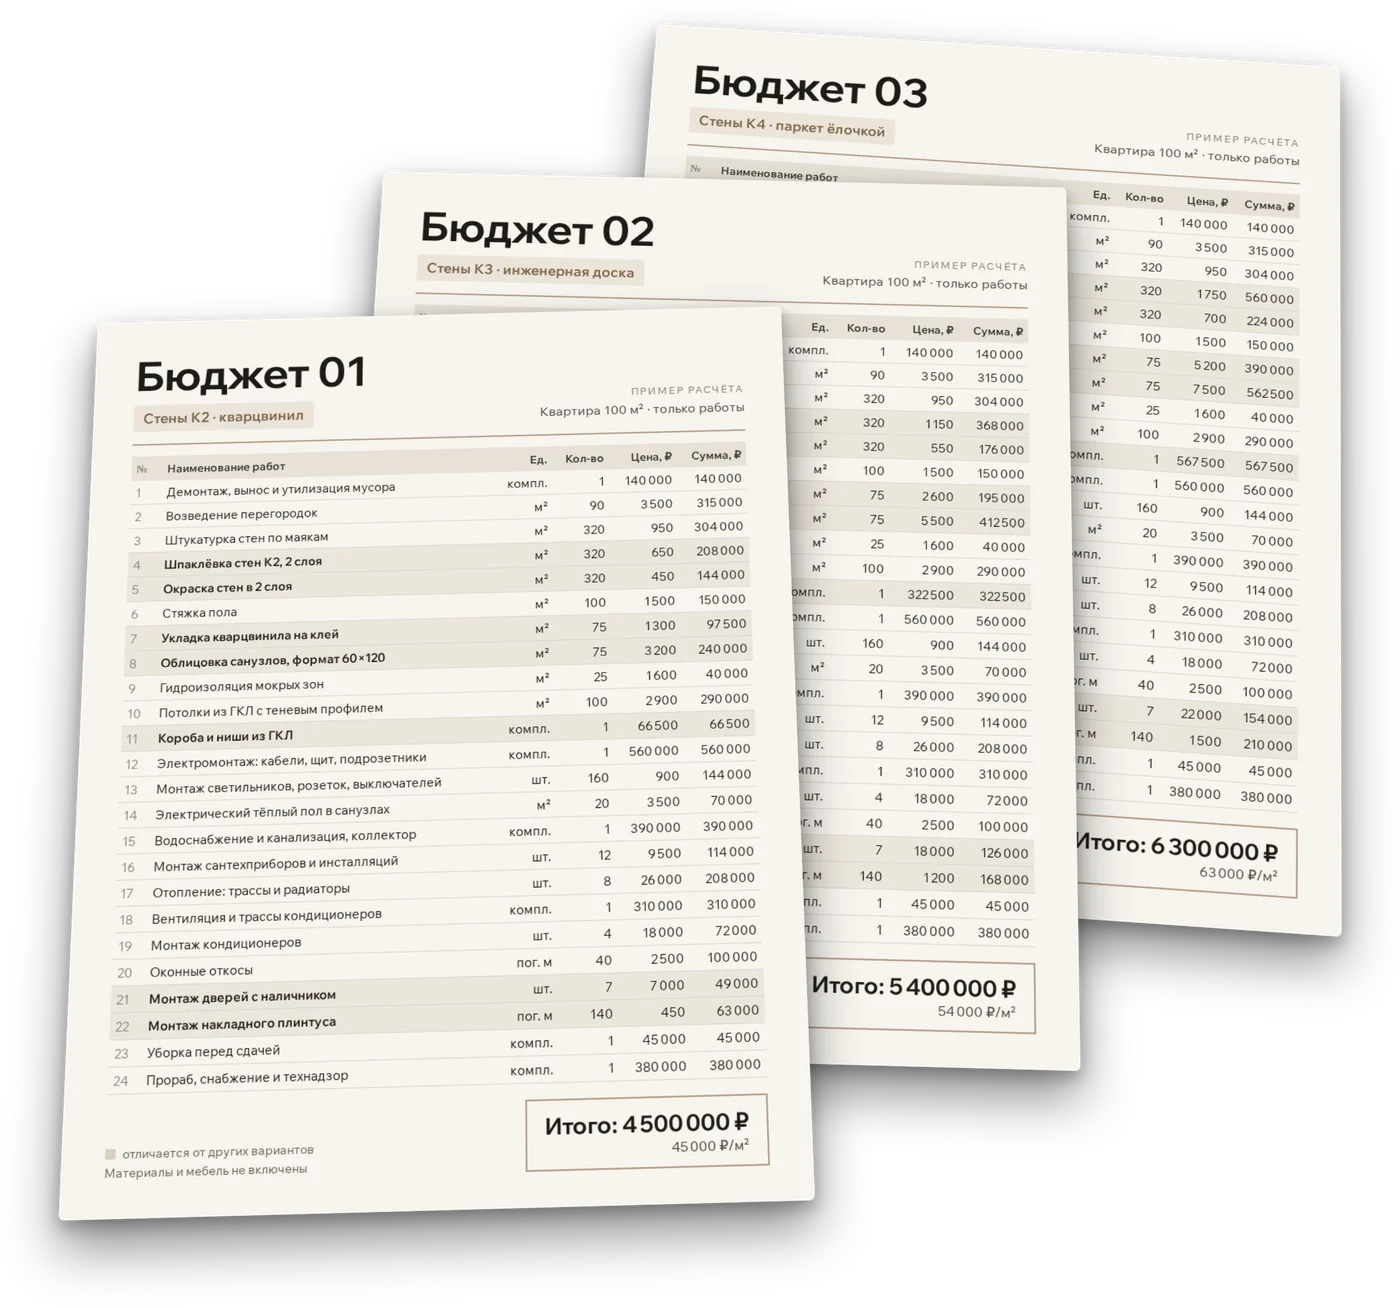
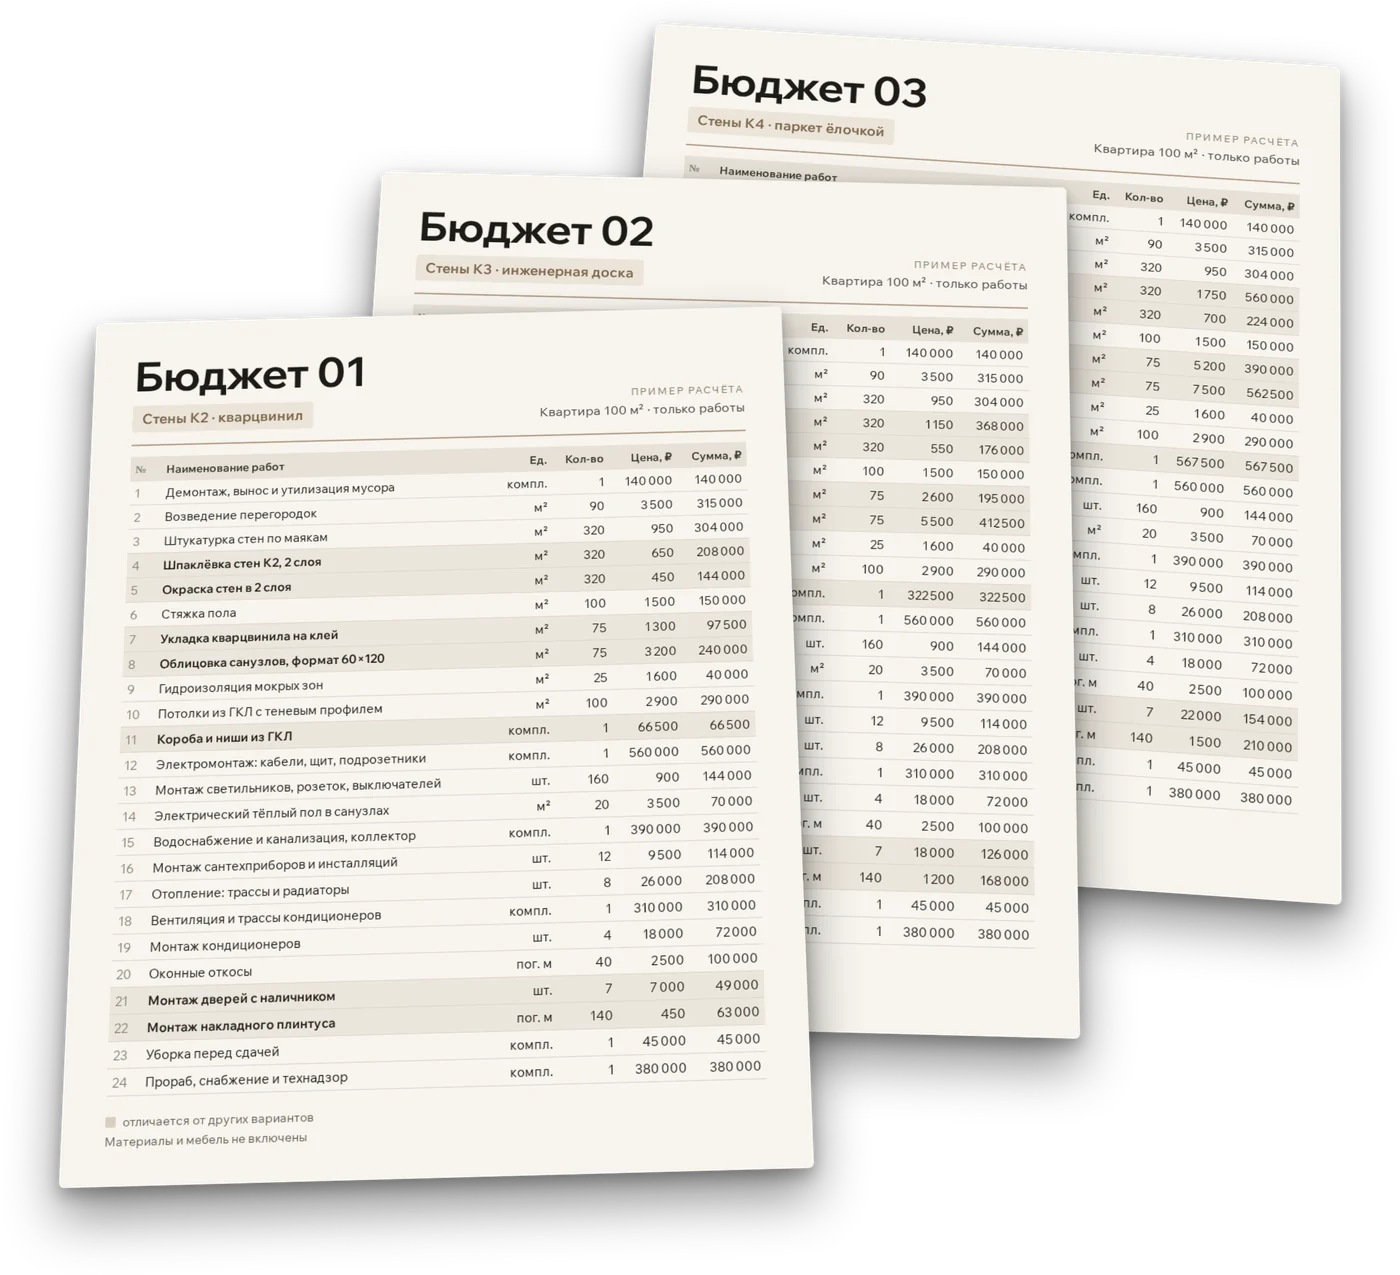
Estimate mockup without totals
Claude-Session: https://claude.ai/code/session_01LWjdqFUbUxfsHTcdZge7DC

diff --git a/index-inter.html b/index-inter.html
@@ -5168,7 +5168,7 @@ footer.ft{ text-align: left !important; padding: clamp(64px, 7vw, 112px) 0 calc(
         <p class="lead-p">Покажем, как реализовать ваш дизайн-проект в 2–3 вариантах: разные «пироги» полов и стен, материалы и решения узлов. Вы сравните цену и выберете — а квартира всё равно будет как на визуализации.</p>
         <button type="button" class="btn-primary" data-lead="estimate" style="margin-top:22px">Сравнить варианты сметы</button>
       </div>
-      <img class="pt-estimg" src="img/design/estimate-3.webp" alt="Три варианта сметы для квартиры 100 м²: стены К2 и кварцвинил — 4,5 млн ₽, стены К3 и инженерная доска — 5,4 млн ₽, стены К4 и паркет ёлочкой — 6,3 млн ₽" loading="lazy" decoding="async" width="1200" height="910">
+      <img class="pt-estimg" src="img/design/estimate-3.webp" alt="Три варианта сметы для квартиры 100 м²: стены К2 и кварцвинил, стены К3 и инженерная доска, стены К4 и паркет ёлочкой" loading="lazy" decoding="async" width="1200" height="910">
     </div>
     <span class="todo">Мокап сметы — пример для прототипа. Для сайта сделать скриншот реального обезличенного разбора.</span>
   </div>
